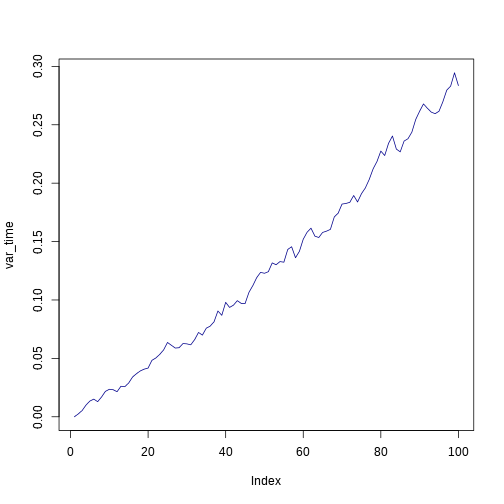
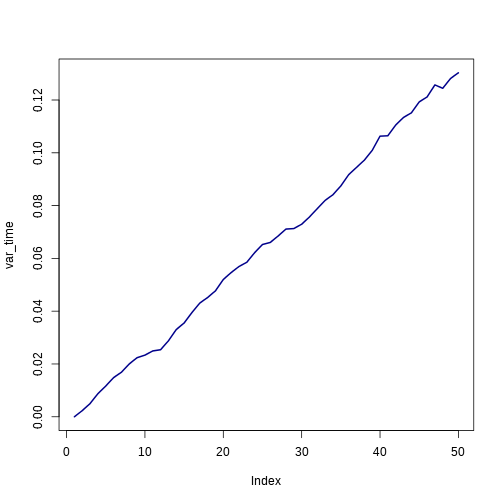
Cleanup

diff --git a/seances/slides2.html b/seances/slides2.html
@@ -3,8 +3,9 @@
 <html>
 <head>
 <meta http-equiv="Content-Type" content="text/html; charset=utf-8"/>
+<meta http-equiv="x-ua-compatible" content="IE=9" >
 
-<title>Dans l&#39;épisode précédent</title>
+<title>Vectorisation et tests</title>
 
 <style type="text/css">
 body, td {
@@ -182,6 +183,10 @@ hljs.initHighlightingOnLoad();
 </head>
 
 <body>
+<h1>Vectorisation et tests</h1>
+
+<p>author: Timothée Poisot</p>
+
 <h1>Dans l&#39;épisode précédent</h1>
 
 <ol>
@@ -562,7 +567,7 @@ ve + 2
 brownian(steps = 4)
 </code></pre>
 
-<pre><code>## [1]  0.00000 -0.01696 -0.03381 -0.07784
+<pre><code>## [1]  0.000000  0.007696 -0.037289 -0.083971
 </code></pre>
 
 <h1>Mouvement brownien</h1>
@@ -572,11 +577,11 @@ brownian(steps = 4)
 }
 </code></pre>
 
-<pre><code>## [1]  0.000000  0.002863 -0.041719
-## [1]  0.0000 -0.1058 -0.1789
-## [1] 0.000000 0.007253 0.027261
-## [1]  0.0000 -0.0634 -0.0825
-## [1] 0.00000 0.08889 0.07016
+<pre><code>## [1]  0.00000 -0.03498 -0.03415
+## [1]  0.00000 -0.01237 -0.05253
+## [1]  0.000000  0.042504 -0.003665
+## [1] 0.00000 0.05205 0.02726
+## [1]  0.00000 -0.01371 -0.06052
 </code></pre>
 
 <h1>Mouvement brownien</h1>
@@ -584,44 +589,45 @@ brownian(steps = 4)
 <pre><code class="r">replicate(5, brownian(steps = 3))
 </code></pre>
 
-<pre><code>##         [,1]     [,2]     [,3]     [,4]   [,5]
-## [1,] 0.00000  0.00000  0.00000  0.00000 0.0000
-## [2,] 0.01059 -0.12547 -0.06665 -0.06913 0.0631
-## [3,] 0.05033 -0.08546 -0.08220 -0.04183 0.1056
+<pre><code>##         [,1]     [,2]    [,3]     [,4]    [,5]
+## [1,] 0.00000  0.00000  0.0000  0.00000 0.00000
+## [2,] 0.02398 -0.06591 -0.0671 -0.02381 0.02119
+## [3,] 0.06778 -0.04294 -0.1190  0.03692 0.01715
 </code></pre>
 
 <h1>Mouvement brownien</h1>
 
-<pre><code class="r">walk = replicate(50, brownian(steps = 100))
+<pre><code class="r">walk = replicate(300, brownian(steps = 50))
 
 var_time = apply(walk, 1, var)
 
-print(var_time)
+print(head(var_time))
 </code></pre>
 
-<pre><code>##   [1] 0.000000 0.002450 0.005334 0.010037 0.013497 0.015126 0.012958
-##   [8] 0.016934 0.021800 0.023561 0.023170 0.021496 0.026146 0.025759
-##  [15] 0.028945 0.034061 0.036869 0.039280 0.040803 0.041723 0.048376
-##  [22] 0.050352 0.053389 0.057239 0.063643 0.061217 0.058847 0.059157
-##  [29] 0.062730 0.062425 0.061613 0.066017 0.072184 0.069931 0.075856
-##  [36] 0.077608 0.081311 0.090580 0.086860 0.098008 0.093649 0.095554
-##  [43] 0.099440 0.097107 0.096925 0.106492 0.112274 0.119115 0.123649
-##  [50] 0.122864 0.124208 0.131749 0.130184 0.132863 0.132330 0.143203
-##  [57] 0.145603 0.136167 0.141578 0.152056 0.158035 0.161469 0.154671
-##  [64] 0.153488 0.157837 0.158941 0.160444 0.171059 0.174301 0.182119
-##  [71] 0.182626 0.183585 0.189436 0.183898 0.190921 0.195837 0.203092
-##  [78] 0.212129 0.218458 0.227479 0.223680 0.234190 0.240373 0.229224
-##  [85] 0.226812 0.236052 0.238052 0.243640 0.254547 0.261595 0.267837
-##  [92] 0.264138 0.260861 0.259486 0.261590 0.269777 0.279623 0.283092
-##  [99] 0.294498 0.283576
+<pre><code>## [1] 0.000000 0.002325 0.005008 0.008748 0.011638 0.014828
 </code></pre>
 
 <h1>Mouvement brownien</h1>
 
-<pre><code class="r">plot(var_time, type = &quot;l&quot;, col = &quot;darkblue&quot;)
[1 lines of base64/hex data omitted]
+
+<h1><code>apply</code></h1>
+
+<pre><code>apply(matrice, DIM, FUN)
 </code></pre>
 
[1 lines of base64/hex data omitted]
+<ul>
+<li><code>DIM</code>: <code>1</code> pour les lignes, <code>2</code> pour les colonnes</li>
+<li><code>FUN</code>: toute fonction prennant un vecteur comme argument</li>
+</ul>
+
+<h1><code>apply</code> - définition en-ligne</h1>
+
+<pre><code class="r">coef_var = apply(walk, 1, function(x) mean(abs(x)))
+plot(coef_var, type = &quot;l&quot;, lwd = 2, col = &quot;darkgreen&quot;)
+</code></pre>
+
[1 lines of base64/hex data omitted]
 
 </body>
 

diff --git a/seances/slides2.md b/seances/slides2.md
@@ -1,6 +1,6 @@
-% Vectorisation et tests
-% Timothée Poisot
-%
+Vectorisation et tests
+=======================
+author: Timothée Poisot
 
 # Dans l'épisode précédent
 
@@ -488,7 +488,7 @@ brownian(steps = 4)
 ```
 
 ```
-## [1]  0.00000 -0.01696 -0.03381 -0.07784
+## [1]  0.000000  0.007696 -0.037289 -0.083971
 ```
 
 
@@ -502,11 +502,11 @@ for (i in c(1:5)) {
 ```
 
 ```
-## [1]  0.000000  0.002863 -0.041719
-## [1]  0.0000 -0.1058 -0.1789
-## [1] 0.000000 0.007253 0.027261
-## [1]  0.0000 -0.0634 -0.0825
-## [1] 0.00000 0.08889 0.07016
+## [1]  0.00000 -0.03498 -0.03415
+## [1]  0.00000 -0.01237 -0.05253
+## [1]  0.000000  0.042504 -0.003665
+## [1] 0.00000 0.05205 0.02726
+## [1]  0.00000 -0.01371 -0.06052
 ```
 
 
@@ -518,10 +518,10 @@ replicate(5, brownian(steps = 3))
 ```
 
 ```
-##         [,1]     [,2]     [,3]     [,4]   [,5]
-## [1,] 0.00000  0.00000  0.00000  0.00000 0.0000
-## [2,] 0.01059 -0.12547 -0.06665 -0.06913 0.0631
-## [3,] 0.05033 -0.08546 -0.08220 -0.04183 0.1056
+##         [,1]     [,2]    [,3]     [,4]    [,5]
+## [1,] 0.00000  0.00000  0.0000  0.00000 0.00000
+## [2,] 0.02398 -0.06591 -0.0671 -0.02381 0.02119
+## [3,] 0.06778 -0.04294 -0.1190  0.03692 0.01715
 ```
 
 
@@ -529,38 +529,39 @@ replicate(5, brownian(steps = 3))
 
 
 ```r
-walk = replicate(50, brownian(steps = 100))
+walk = replicate(300, brownian(steps = 50))
 
 var_time = apply(walk, 1, var)
 
-print(var_time)
+print(head(var_time))
 ```
 
 ```
-##   [1] 0.000000 0.002450 0.005334 0.010037 0.013497 0.015126 0.012958
-##   [8] 0.016934 0.021800 0.023561 0.023170 0.021496 0.026146 0.025759
-##  [15] 0.028945 0.034061 0.036869 0.039280 0.040803 0.041723 0.048376
-##  [22] 0.050352 0.053389 0.057239 0.063643 0.061217 0.058847 0.059157
-##  [29] 0.062730 0.062425 0.061613 0.066017 0.072184 0.069931 0.075856
-##  [36] 0.077608 0.081311 0.090580 0.086860 0.098008 0.093649 0.095554
-##  [43] 0.099440 0.097107 0.096925 0.106492 0.112274 0.119115 0.123649
-##  [50] 0.122864 0.124208 0.131749 0.130184 0.132863 0.132330 0.143203
-##  [57] 0.145603 0.136167 0.141578 0.152056 0.158035 0.161469 0.154671
-##  [64] 0.153488 0.157837 0.158941 0.160444 0.171059 0.174301 0.182119
-##  [71] 0.182626 0.183585 0.189436 0.183898 0.190921 0.195837 0.203092
-##  [78] 0.212129 0.218458 0.227479 0.223680 0.234190 0.240373 0.229224
-##  [85] 0.226812 0.236052 0.238052 0.243640 0.254547 0.261595 0.267837
-##  [92] 0.264138 0.260861 0.259486 0.261590 0.269777 0.279623 0.283092
-##  [99] 0.294498 0.283576
+## [1] 0.000000 0.002325 0.005008 0.008748 0.011638 0.014828
 ```
 
 
 # Mouvement brownien
 
+![plot of chunk unnamed-chunk-20](figure/unnamed-chunk-20.png) 
 
-```r
-plot(var_time, type = "l", col = "darkblue")
+
+# `apply`
+
+```{}
+apply(matrice, DIM, FUN)
 ```
 
-![plot of chunk unnamed-chunk-20](figure/unnamed-chunk-20.png) 
+- `DIM`: `1` pour les lignes, `2` pour les colonnes
+- `FUN`: toute fonction prennant un vecteur comme argument
+
+# `apply` - définition en-ligne
+
+
+```r
+coef_var = apply(walk, 1, function(x) mean(abs(x)))
+plot(coef_var, type = "l", lwd = 2, col = "darkgreen")
+```
+
+![plot of chunk unnamed-chunk-21](figure/unnamed-chunk-21.png) 
 
